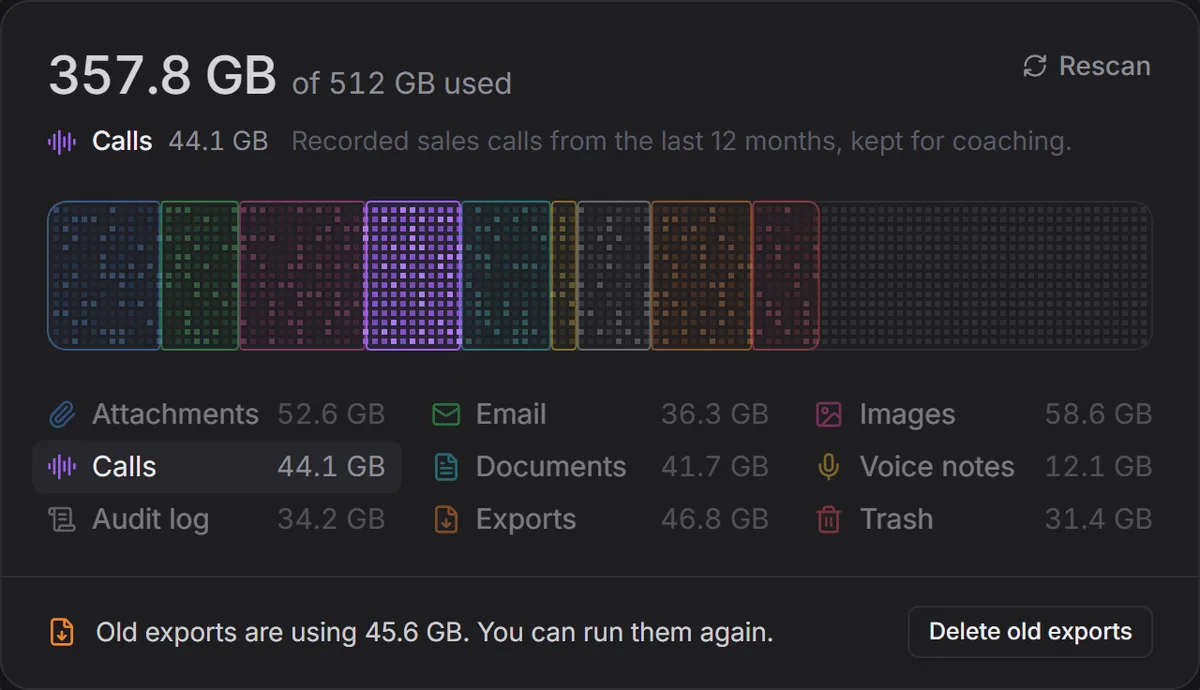
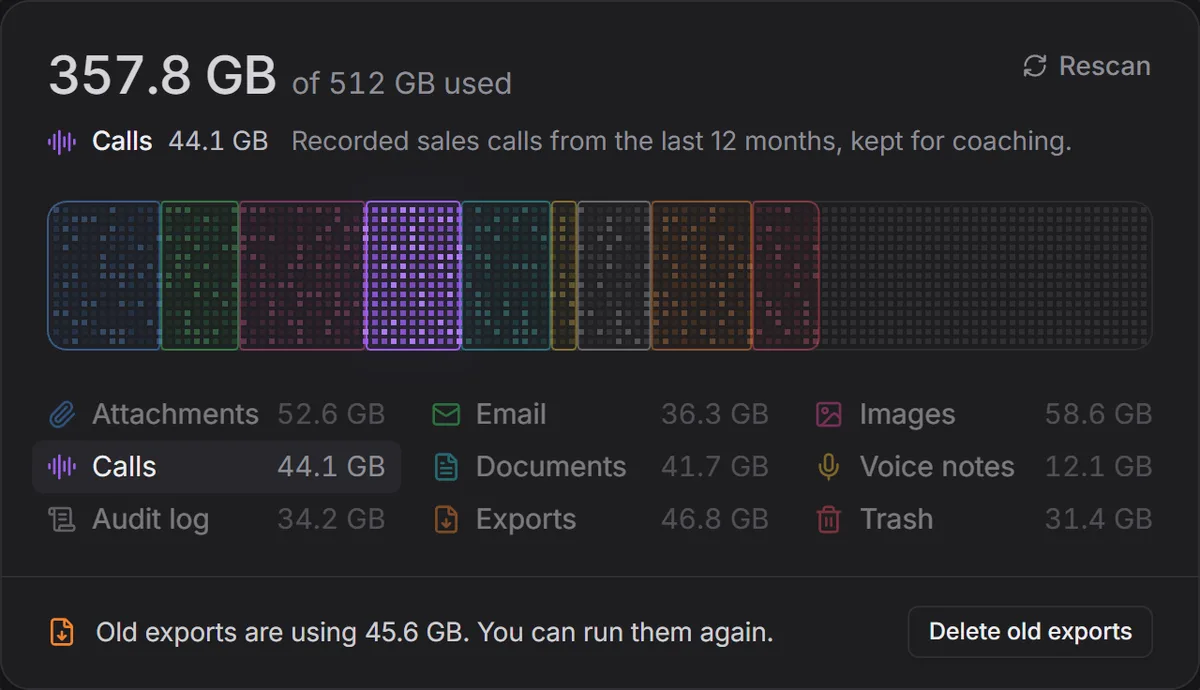
Storage scanner: keep the line's detail and path at AA contrast

Changed region(s): [[0.1233, 0.1826, 0.8942, 0.2435]]

diff --git a/packages/ui/src/components/ui/storage-scanner.module.css b/packages/ui/src/components/ui/storage-scanner.module.css
@@ -71,9 +71,10 @@
   font-weight: var(--hg-font-weight-medium);
   color: var(--hg-color-ink);
 }
+/* Size sits between the label and the detail; the detail stays at muted, not faint, to keep 4.5:1. */
 .lineSize {
   flex-shrink: 0;
-  color: var(--hg-color-muted);
+  color: color-mix(in oklab, var(--hg-color-ink), var(--hg-color-muted));
   font-variant-numeric: tabular-nums;
 }
 .detail,
@@ -81,7 +82,7 @@
   min-width: 0;
   overflow: hidden;
   text-overflow: ellipsis;
-  color: var(--hg-color-faint);
+  color: var(--hg-color-muted);
 }
 .lineSize + .detail {
   margin-left: var(--hg-space-1);
